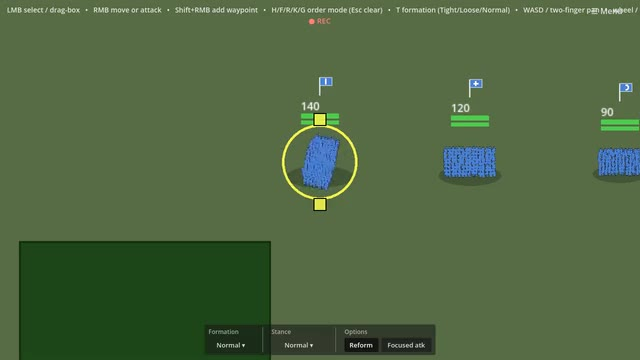
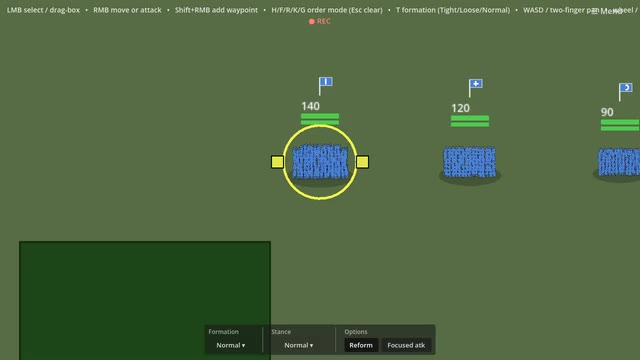
Deploying to gh-pages from @ Lacaedemon/sparta@f59b4ce6c0b4e6cce9321dabe793d54914dcf9a9 🚀

Changed region(s): [[0.4062, 0.3056, 0.5938, 0.5806]]

diff --git a/how-to-play.html b/how-to-play.html
@@ -587,8 +587,8 @@ ul.task-list li input[type="checkbox"] {
 </ul>
 <p>The bar updates immediately when you select a different unit or change a setting elsewhere.</p>
 <p><strong>Pace modes (AUTO by default).</strong> Units walk on approach, jog when a ranged enemy is within range (under missile fire), and accelerate to full sprint speed once within about 200 px of the target — so a charge arrives at full momentum without wearing out the troops on the march. Toggle <strong>☰ Menu → Walk advance</strong> to lock units to walk pace throughout; this is required for formed stances like shield wall or pike phalanx that break if the unit breaks into a run.</p>
-<p><strong>Move order sequence.</strong> When you right-click a destination, the regiment turns to face that direction immediately — soldiers wheel in place so the formation is already pointed at the march target before the first step. The unit then marches straight forward and arrives still facing the march direction, with soldiers settling into formation on arrival.</p>
-<p><strong>Reform before move (default on).</strong> By default, a fresh move order makes a unit hold its position briefly (~0.8 s) while its ranks settle into formation before it steps off. Because the unit pre-faces the destination during this hold, soldiers complete their wheel while standing still rather than rotating mid-march. To make units move immediately without the pause, uncheck <strong>☰ Menu → Reform before move</strong> or click <strong>Reform</strong> in the control bar. The setting is baked into each recorded order, so replays reproduce whichever mode was active when you issued them.</p>
+<p><strong>Move order sequence.</strong> When you right-click a destination, the regiment turns to face it and marches there in good order: it <strong>wheels</strong> onto the new heading — pivoting before it advances on a sharp turn — marches, and settles back into formation on arrival. The next two sections cover the special cases: a small sideways shift (<strong>side-step</strong>) and a larger turn (<strong>wheel / about-face</strong>).</p>
+<p><strong>Reform before move (default on).</strong> By default, a fresh move order makes a unit hold its position briefly (~0.8 s) while its ranks settle into formation before it steps off. The unit spends this hold <strong>wheeling in place</strong> toward the destination, so its ranks are already coming onto the new heading before the first step. To make units move immediately without the pause, uncheck <strong>☰ Menu → Reform before move</strong> or click <strong>Reform</strong> in the control bar. The setting is baked into each recorded order, so replays reproduce whichever mode was active when you issued them.</p>
 <p><strong>Side-step (small lateral moves).</strong> A move order that only shifts a unit a short way to the side — less than about its own width — is carried out as a <strong>side-step</strong>: the unit shuffles sideways at a walk while holding its current facing, instead of wheeling the whole line round to face the move and then wheeling back. So a small dressing of the line keeps every soldier looking the same way and keeps the ranks in order. A longer move, or one that heads forward, still turns to face the destination and marches normally.</p>
 <figure class="demo figure">
   <video class="demo-video" controls="" muted="" loop="" playsinline="" preload="metadata" poster="media/sidestep.jpg">
@@ -597,6 +597,15 @@ ul.task-list li input[type="checkbox"] {
     <a href="https://github.com/Lacaedemon/sparta">repository</a> to run the game.
   </video>
   <figcaption>Side-step: a short lateral move shuffles the regiment sideways while it holds its facing, rather than wheeling.</figcaption>
+</figure>
+<p><strong>Wheeling and about-face (larger turns).</strong> A move order that turns a unit toward a new heading makes it <strong>wheel</strong> there gradually rather than snapping — it turns toward its travel direction in good order as it sets off. When the heading change is sharp, the unit <strong>pivots before it advances</strong>: it nearly halts, comes onto its new facing, then marches. For a destination directly <strong>behind</strong> the unit this reads as an <strong>about-face</strong> — the regiment turns around to face where it is going and then steps off, instead of sliding backwards. So a unit always marches facing its destination, and never reverses into it. (A chasing or charging unit still turns instantly — the gradual wheel is for your own move orders, where order matters more than the last fraction of a second.)</p>
+<figure class="demo figure">
+  <video class="demo-video" controls="" muted="" loop="" playsinline="" preload="metadata" poster="media/about_face.jpg">
+    <source src="media/about_face.mp4" type="video/mp4">
+    Your browser can't play this clip --- see the
+    <a href="https://github.com/Lacaedemon/sparta">repository</a> to run the game.
+  </video>
+  <figcaption>About-face: ordered to a point behind it, the regiment pivots in good order to face the destination, then marches off.</figcaption>
 </figure>
 <p><strong>Zoom in to see the soldiers.</strong> From the usual overview each regiment is a block of small marks. Zoom in far enough and those marks become individual figures, and each type carries its own gear — spearmen shoulder a spear, archers carry a bow, other foot raise a shield, and cavalry ride a mount that faces the regiment’s march. So you can watch the ranks as people, not dots, and still read who is who. Zoom back out and they collapse to the legible marks again.</p>
 <p>Zoom in on a melee and the front-rank fighters <strong>work their weapons</strong> — thrusting and swinging their blades at the enemy on the attack cadence. The blade length tracks each unit’s reach, so a spear line visibly out-thrusts a sword line: the longest weapons reach furthest toward the foe (see <a href="./tactics.html#weapon-reach">Weapon reach</a>).</p>

diff --git a/tactics.html b/tactics.html
@@ -450,6 +450,7 @@ ul.task-list li input[type="checkbox"] {
   <li><a href="#movement-speed" id="toc-movement-speed" class="nav-link" data-scroll-target="#movement-speed">Movement speed</a></li>
   <li><a href="#pace-modes" id="toc-pace-modes" class="nav-link" data-scroll-target="#pace-modes">Pace modes</a></li>
   <li><a href="#side-stepping-the-line" id="toc-side-stepping-the-line" class="nav-link" data-scroll-target="#side-stepping-the-line">Side-stepping the line</a></li>
+  <li><a href="#wheeling-and-the-about-face" id="toc-wheeling-and-the-about-face" class="nav-link" data-scroll-target="#wheeling-and-the-about-face">Wheeling and the about-face</a></li>
   <li><a href="#order-stances" id="toc-order-stances" class="nav-link" data-scroll-target="#order-stances">Order stances</a></li>
   <li><a href="#group-attack-distribution" id="toc-group-attack-distribution" class="nav-link" data-scroll-target="#group-attack-distribution">Group attack distribution</a></li>
   <li><a href="#terrain" id="toc-terrain" class="nav-link" data-scroll-target="#terrain">Terrain</a></li>
@@ -618,6 +619,11 @@ ul.task-list li input[type="checkbox"] {
 <h2 class="anchored" data-anchor-id="side-stepping-the-line">Side-stepping the line</h2>
 <p>A small lateral move order is carried out as a <strong>side-step</strong>: the unit shuffles sideways while holding its facing, instead of wheeling to face the move and wheeling back. That matters when you are dressing a line just before contact. Wheeling a regiment turns it away from the enemy for the length of the turn — its front momentarily points sideways, and the ranks lose their dressing while the soldiers reshuffle. A side-step keeps every soldier looking at the enemy and keeps the line aligned, so you can nudge a unit a few paces to close a gap or overlap an enemy flank without ever presenting your own flank in the process.</p>
 <p>The cut-off is roughly a unit’s own width: shifts wider than that, or moves that head forward, turn and march normally. So to reposition laterally in good order, make the adjustment small — a short step keeps the line intact, a long one commits the unit to a march.</p>
+</section>
+<section id="wheeling-and-the-about-face" class="level2">
+<h2 class="anchored" data-anchor-id="wheeling-and-the-about-face">Wheeling and the about-face</h2>
+<p>A larger turn is a <strong>wheel</strong>: the unit comes onto its new heading in good order rather than snapping round. When the turn is sharp the unit pivots before it advances — it nearly halts, faces its destination, then marches — so it never slides sideways or backwards at speed. A destination to the <strong>rear</strong> therefore triggers an <strong>about-face</strong>: the regiment turns around to face where it is going before it steps off.</p>
+<p>The cost is time: a sharp reorientation spends a beat pivoting before the unit makes ground, and an about-face spends the most. Plan turns ahead of contact — a unit told to reverse at the moment of impact will spend its pivot facing the wrong way. Note that a <strong>chasing or charging</strong> unit turns instantly instead, so an attack order never pays the wheel tax; the orderly wheel is reserved for your own move orders, where keeping the ranks dressed is worth the beat.</p>
 </section>
 <section id="order-stances" class="level2">
 <h2 class="anchored" data-anchor-id="order-stances">Order stances</h2>